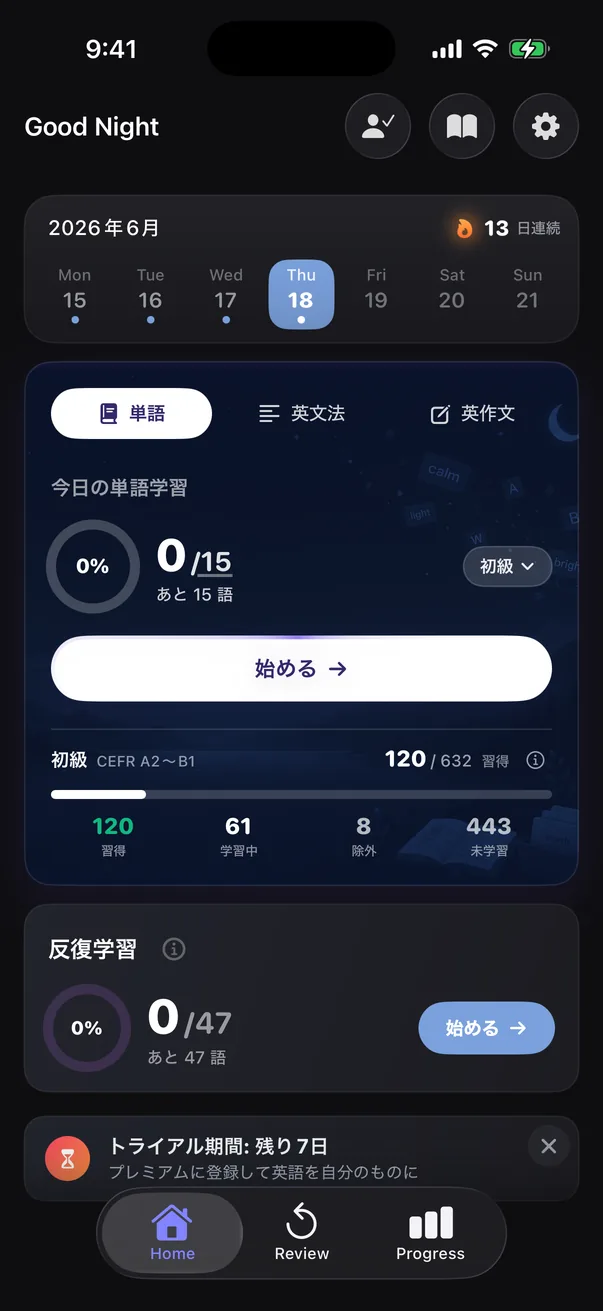
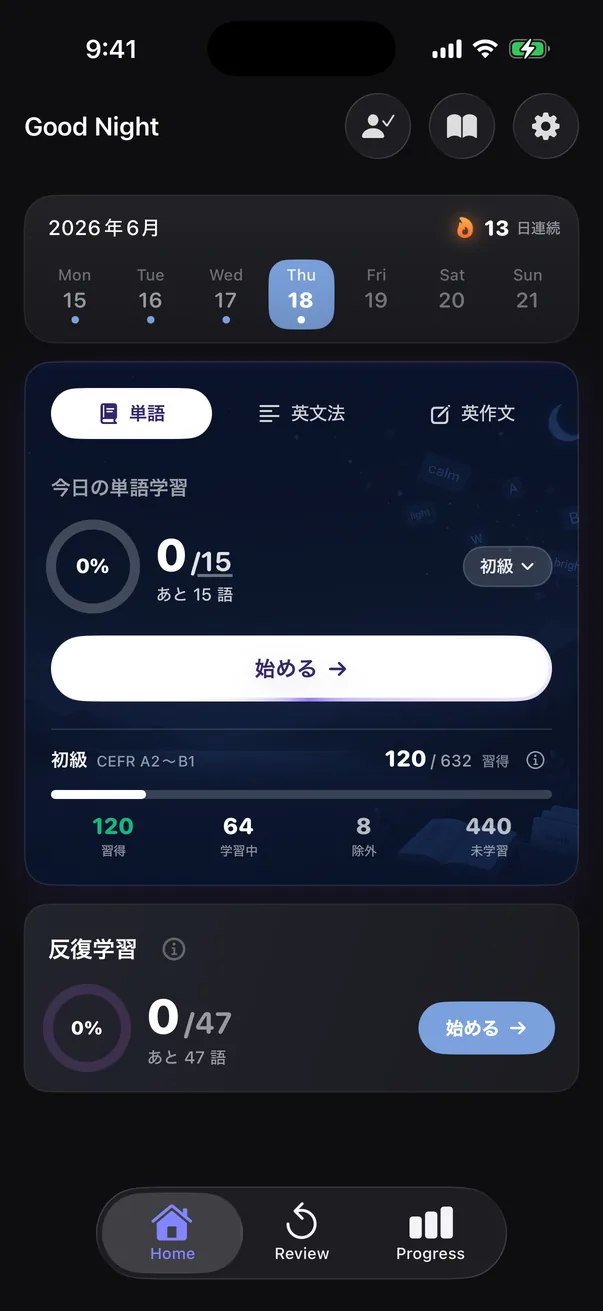
fix(screenshots): ホーム(ライト/ダーク)をリム縁取り反映版に差し替え

diff --git a/index.html b/index.html
@@ -402,7 +402,7 @@
                         <span class="phone-btn phone-btn-vol-dn"></span>
                         <span class="phone-btn phone-btn-power"></span>
                         <div class="phone-screen">
-                            <img src="screenshots/home-light.webp?v=0618"
+                            <img src="screenshots/home-light.webp?v=0618b"
                                  alt="SnapEnglish ホーム画面 ライトモード — 学習進捗カレンダーと英作文コース一覧"
                                  width="603" height="1311"
                                  loading="eager"
@@ -416,7 +416,7 @@
                         <span class="phone-btn phone-btn-vol-dn"></span>
                         <span class="phone-btn phone-btn-power"></span>
                         <div class="phone-screen phone-screen-dark">
-                            <img src="screenshots/home-dark.webp?v=0618"
+                            <img src="screenshots/home-dark.webp?v=0618b"
                                  alt="SnapEnglish ホーム画面 ダークモード"
                                  width="603" height="1311"
                                  loading="lazy">

diff --git a/en/index.html b/en/index.html
@@ -381,7 +381,7 @@
                         <span class="phone-btn phone-btn-vol-dn"></span>
                         <span class="phone-btn phone-btn-power"></span>
                         <div class="phone-screen">
-                            <img src="../screenshots/home-light.webp?v=0618"
+                            <img src="../screenshots/home-light.webp?v=0618b"
                                  alt="SnapEnglish home screen, light mode — calendar and composition courses"
                                  width="603" height="1311"
                                  loading="eager"
@@ -395,7 +395,7 @@
                         <span class="phone-btn phone-btn-vol-dn"></span>
                         <span class="phone-btn phone-btn-power"></span>
                         <div class="phone-screen phone-screen-dark">
-                            <img src="../screenshots/home-dark.webp?v=0618"
+                            <img src="../screenshots/home-dark.webp?v=0618b"
                                  alt="SnapEnglish home screen, dark mode"
                                  width="603" height="1311"
                                  loading="lazy">
